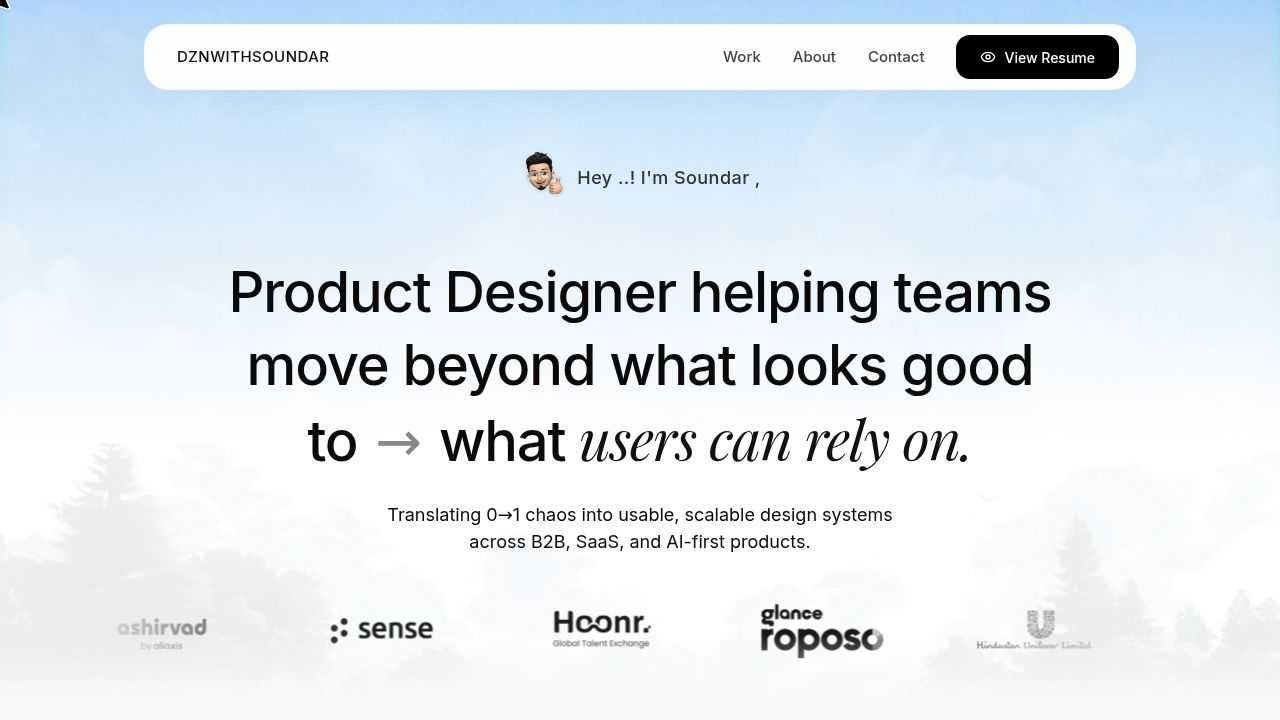
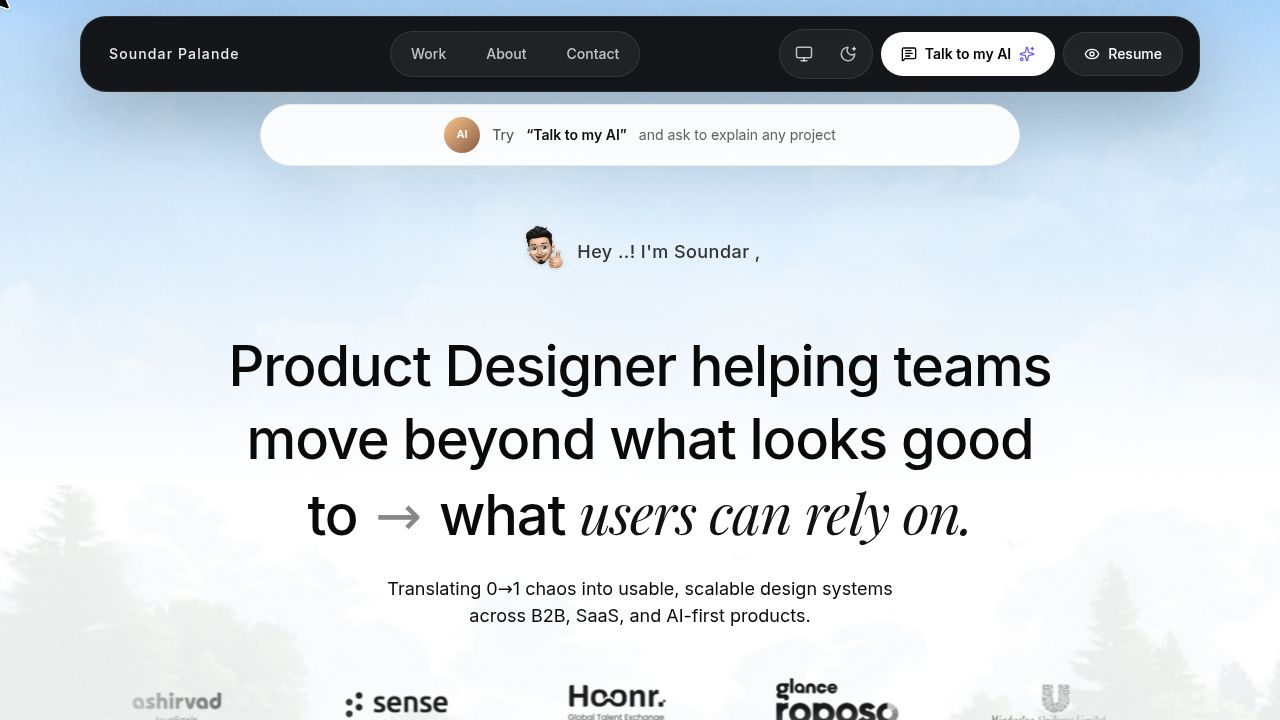
Add an AI-guided experience to the portfolio landing page
Update `index.html` to modify meta tags for SEO and social sharing. Enhance `Hero.tsx` to adjust spacing for new content. Modify `NavBar.tsx` to introduce AI chat functionality, including suggestions, responses, and UI elements, and update navigation styling and behavior.

Replit-Commit-Author: Agent
Replit-Commit-Session-Id: 309cf53a-3d51-4158-a2ee-b2e9ca87f620
Replit-Commit-Checkpoint-Type: full_checkpoint
Replit-Commit-Event-Id: c3237f9f-7fe1-4f6b-af50-444bf3647f81
Replit-Commit-Screenshot-Url: https://storage.googleapis.com/screenshot-production-us-central1/e06b2b63-bfd4-49fe-b2f3-cd91cb2347d5/309cf53a-3d51-4158-a2ee-b2e9ca87f620/76h2har
Replit-Helium-Checkpoint-Created: true

diff --git a/client/src/components/NavBar.tsx b/client/src/components/NavBar.tsx
@@ -1,88 +1,296 @@
-import { Button } from "@/components/ui/button";
-import { Download, Menu, X, Eye } from "lucide-react";
-import { useState } from "react";
+import { Eye, Menu, MessageSquareText, Monitor, MoonStar, Sparkles, X } from "lucide-react";
+import { useMemo, useState } from "react";
 import { ResumeModal } from "./ResumeModal";
+
+const aiSuggestions = [
+  "Explain any project",
+  "Show how I think through UX",
+  "Find the strongest case study",
+  "Summarize my design system work",
+];
 
 export function NavBar() {
   const [isMobileMenuOpen, setIsMobileMenuOpen] = useState(false);
   const [isResumeOpen, setIsResumeOpen] = useState(false);
+  const [isAiOpen, setIsAiOpen] = useState(false);
+  const [activePrompt, setActivePrompt] = useState(aiSuggestions[0]);
+
+  const aiResponse = useMemo(() => {
+    if (activePrompt === "Show how I think through UX") {
+      return "I map ambiguity into usable flows, tighten the product story, and turn feedback into systems teams can ship with confidence.";
+    }
+
+    if (activePrompt === "Find the strongest case study") {
+      return "Start with the AI CRM work. It shows product strategy, workflow simplification, and interface decisions that directly improved usability.";
+    }
+
+    if (activePrompt === "Summarize my design system work") {
+      return "I build scalable UI foundations with thoughtful tokens, repeatable interaction patterns, and components that stay consistent as products grow.";
+    }
+
+    return "Ask about any project and I will frame the context, the problem, the design decisions, and the outcomes in a clean story.";
+  }, [activePrompt]);
 
   const handleNavClick = (e: React.MouseEvent<HTMLAnchorElement>, targetId: string) => {
-    setIsMobileMenuOpen(false); // Close mobile menu when a link is clicked
+    setIsMobileMenuOpen(false);
     const isHome = window.location.pathname === "/";
     if (isHome) {
       e.preventDefault();
       const section = document.getElementById(targetId);
       if (section) {
-        const navHeight = 100;
+        const navHeight = 120;
         const elementPosition = section.getBoundingClientRect().top;
         const offsetPosition = elementPosition + window.pageYOffset - navHeight;
         window.scrollTo({
           top: offsetPosition,
-          behavior: "smooth"
+          behavior: "smooth",
         });
       }
     }
   };
 
   return (
-    <div className="fixed top-6 left-1/2 -translate-x-1/2 w-full max-w-5xl px-4 z-[9998]">
-      <nav className="bg-white/95 backdrop-blur-md flex items-center justify-between px-3 py-2.5 rounded-3xl shadow-[0_8px_30px_rgb(0,0,0,0.04)] border border-gray-100/50">
-        <a href="/" className="pl-5 text-[15px] font-medium tracking-[0.03em] text-[#111] hover:opacity-80 transition-opacity font-sans">
-          DZNWITHSOUNDAR
-        </a>
-        
-        <div className="flex items-center gap-8 pr-1">
-          {/* Desktop Navigation */}
-          <div className="hidden md:flex items-center gap-8 text-[15px] font-medium text-[#444] font-sans">
-            <a href="/#work" onClick={(e) => handleNavClick(e, 'work')} className="hover:text-black transition-colors">Work</a>
-            <a href="/#about" onClick={(e) => handleNavClick(e, 'about')} className="hover:text-black transition-colors">About</a>
-            <a href="/#contact" onClick={(e) => handleNavClick(e, 'contact')} className="hover:text-black transition-colors">Contact</a>
-          </div>
-          
-          {/* Desktop Resume Button */}
-          <button 
-            onClick={() => setIsResumeOpen(true)}
-            className="hidden md:flex rounded-[14px] px-6 h-11 bg-black text-white hover:bg-[#222] font-medium text-[14px] items-center gap-2 transition-all cursor-pointer"
-          >
-            <Eye className="w-4 h-4" />
-            View Resume
-          </button>
-
-          {/* Mobile Menu Toggle Button */}
-          <button 
-            className="md:hidden p-2 rounded-full hover:bg-gray-100 transition-colors"
-            onClick={() => setIsMobileMenuOpen(!isMobileMenuOpen)}
-          >
-            {isMobileMenuOpen ? <X className="w-6 h-6 text-[#111]" /> : <Menu className="w-6 h-6 text-[#111]" />}
-          </button>
-        </div>
-      </nav>
-
-      {/* Mobile Menu Dropdown */}
-      {isMobileMenuOpen && (
-        <div className="md:hidden absolute top-[calc(100%+12px)] left-4 right-4 bg-white/95 backdrop-blur-md rounded-2xl shadow-[0_8px_30px_rgb(0,0,0,0.08)] border border-gray-100/50 p-4 flex flex-col gap-4">
-          <div className="flex flex-col gap-4 text-[16px] font-medium text-[#444] font-sans">
-            <a href="/#work" onClick={(e) => handleNavClick(e, 'work')} className="hover:text-black transition-colors px-4 py-2 hover:bg-gray-50 rounded-xl">Work</a>
-            <a href="/#about" onClick={(e) => handleNavClick(e, 'about')} className="hover:text-black transition-colors px-4 py-2 hover:bg-gray-50 rounded-xl">About</a>
-            <a href="/#contact" onClick={(e) => handleNavClick(e, 'contact')} className="hover:text-black transition-colors px-4 py-2 hover:bg-gray-50 rounded-xl">Contact</a>
-          </div>
-          <div className="pt-2 border-t border-gray-100">
-            <button 
-              onClick={() => {
-                setIsResumeOpen(true);
-                setIsMobileMenuOpen(false);
-              }}
-              className="w-full rounded-[14px] h-12 bg-black text-white hover:bg-[#222] font-medium text-[15px] flex items-center justify-center gap-2 transition-all cursor-pointer"
+    <>
+      <div className="fixed top-4 left-1/2 z-[9998] flex w-full max-w-6xl -translate-x-1/2 flex-col items-center gap-3 px-4">
+        <nav className="w-full rounded-[26px] border border-white/10 bg-[#0b0b0d]/95 px-4 py-3 text-white shadow-[0_20px_80px_rgba(0,0,0,0.28)] backdrop-blur-xl">
+          <div className="flex items-center justify-between gap-3">
+            <a
+              href="/"
+              data-testid="link-home-brand"
+              className="rounded-full px-3 py-2 text-sm font-medium tracking-[0.08em] text-white/92 transition-opacity hover:opacity-75"
             >
-              <Eye className="w-4 h-4" />
-              View Resume
-            </button>
+              Soundar Palande
+            </a>
+
+            <div className="hidden items-center gap-2 rounded-full border border-white/10 bg-white/5 p-1 md:flex">
+              <a
+                href="/#work"
+                onClick={(e) => handleNavClick(e, "work")}
+                data-testid="link-work"
+                className="rounded-full px-4 py-2 text-sm font-medium text-white/72 transition-all hover:bg-white/8 hover:text-white"
+              >
+                Work
+              </a>
+              <a
+                href="/#about"
+                onClick={(e) => handleNavClick(e, "about")}
+                data-testid="link-about"
+                className="rounded-full px-4 py-2 text-sm font-medium text-white/72 transition-all hover:bg-white/8 hover:text-white"
+              >
+                About
+              </a>
+              <a
+                href="/#contact"
+                onClick={(e) => handleNavClick(e, "contact")}
+                data-testid="link-contact"
+                className="rounded-full px-4 py-2 text-sm font-medium text-white/72 transition-all hover:bg-white/8 hover:text-white"
+              >
+                Contact
+              </a>
+            </div>
+
+            <div className="flex items-center gap-2">
+              <div className="hidden items-center gap-1 rounded-full border border-white/10 bg-white/5 p-1 md:flex">
+                <button
+                  type="button"
+                  data-testid="button-desktop-view"
+                  className="flex h-10 w-10 items-center justify-center rounded-full text-white/70 transition-all hover:bg-white/8 hover:text-white"
+                >
+                  <Monitor className="h-[18px] w-[18px]" />
+                </button>
+                <button
+                  type="button"
+                  data-testid="button-theme-toggle"
+                  className="flex h-10 w-10 items-center justify-center rounded-full text-white/70 transition-all hover:bg-white/8 hover:text-white"
+                >
+                  <MoonStar className="h-[18px] w-[18px]" />
+                </button>
+              </div>
+
+              <button
+                type="button"
+                onClick={() => setIsAiOpen(true)}
+                data-testid="button-open-ai"
+                className="hidden h-11 items-center gap-2 rounded-full bg-white px-5 text-sm font-semibold text-black transition-all hover:scale-[1.02] hover:bg-[#f4f4f4] md:inline-flex"
+              >
+                <MessageSquareText className="h-4 w-4" />
+                Talk to my AI
+                <Sparkles className="h-4 w-4 text-[#6d5efc]" />
+              </button>
+
+              <button
+                type="button"
+                onClick={() => setIsResumeOpen(true)}
+                data-testid="button-view-resume"
+                className="hidden h-11 items-center gap-2 rounded-full border border-white/10 bg-white/6 px-5 text-sm font-medium text-white transition-all hover:bg-white/10 md:inline-flex"
+              >
+                <Eye className="h-4 w-4" />
+                Resume
+              </button>
+
+              <button
+                type="button"
+                className="flex h-11 w-11 items-center justify-center rounded-full border border-white/10 bg-white/6 text-white transition-colors hover:bg-white/10 md:hidden"
+                onClick={() => setIsMobileMenuOpen(!isMobileMenuOpen)}
+                data-testid="button-toggle-mobile-menu"
+              >
+                {isMobileMenuOpen ? <X className="h-5 w-5" /> : <Menu className="h-5 w-5" />}
+              </button>
+            </div>
+          </div>
+        </nav>
+
+        <button
+          type="button"
+          onClick={() => {
+            setActivePrompt(aiSuggestions[0]);
+            setIsAiOpen(true);
+          }}
+          data-testid="button-ai-prompt-bar"
+          className="group flex w-full max-w-[760px] items-center justify-center gap-3 rounded-full border border-[#eaeaea] bg-white/92 px-5 py-3 text-sm text-[#222] shadow-[0_20px_60px_rgba(15,23,42,0.08)] backdrop-blur-xl transition-all hover:-translate-y-0.5 hover:shadow-[0_24px_70px_rgba(15,23,42,0.12)]"
+        >
+          <div className="flex h-9 w-9 items-center justify-center overflow-hidden rounded-full bg-[linear-gradient(135deg,#f8c58c_0%,#8a5a44_100%)] text-[11px] font-semibold text-white">
+            AI
+          </div>
+          <span className="font-medium text-[#5e5e5e]">Try</span>
+          <span className="font-semibold text-[#0f0f10] group-hover:text-black">“Talk to my AI”</span>
+          <span className="text-[#5e5e5e]">and ask to explain any project</span>
+        </button>
+
+        {isMobileMenuOpen && (
+          <div className="w-full rounded-[24px] border border-[#19191d] bg-[#0b0b0d]/96 p-4 text-white shadow-[0_20px_80px_rgba(0,0,0,0.28)] backdrop-blur-xl md:hidden">
+            <div className="flex flex-col gap-2">
+              <a
+                href="/#work"
+                onClick={(e) => handleNavClick(e, "work")}
+                data-testid="link-mobile-work"
+                className="rounded-2xl px-4 py-3 text-base font-medium text-white/80 transition-all hover:bg-white/8 hover:text-white"
+              >
+                Work
+              </a>
+              <a
+                href="/#about"
+                onClick={(e) => handleNavClick(e, "about")}
+                data-testid="link-mobile-about"
+                className="rounded-2xl px-4 py-3 text-base font-medium text-white/80 transition-all hover:bg-white/8 hover:text-white"
+              >
+                About
+              </a>
+              <a
+                href="/#contact"
+                onClick={(e) => handleNavClick(e, "contact")}
+                data-testid="link-mobile-contact"
+                className="rounded-2xl px-4 py-3 text-base font-medium text-white/80 transition-all hover:bg-white/8 hover:text-white"
+              >
+                Contact
+              </a>
+              <button
+                type="button"
+                onClick={() => {
+                  setIsAiOpen(true);
+                  setIsMobileMenuOpen(false);
+                }}
+                data-testid="button-mobile-open-ai"
+                className="mt-2 flex h-12 items-center justify-center gap-2 rounded-2xl bg-white text-sm font-semibold text-black transition-all hover:bg-[#f4f4f4]"
+              >
+                <MessageSquareText className="h-4 w-4" />
+                Talk to my AI
+              </button>
+              <button
+                type="button"
+                onClick={() => {
+                  setIsResumeOpen(true);
+                  setIsMobileMenuOpen(false);
+                }}
+                data-testid="button-mobile-view-resume"
+                className="flex h-12 items-center justify-center gap-2 rounded-2xl border border-white/10 bg-white/6 text-sm font-medium text-white transition-all hover:bg-white/10"
+              >
+                <Eye className="h-4 w-4" />
+                View Resume
+              </button>
+            </div>
+          </div>
+        )}
+      </div>
+
+      {isAiOpen && (
+        <div className="fixed inset-0 z-[9999] flex items-start justify-center bg-black/45 px-4 pt-32 backdrop-blur-sm">
+          <div className="w-full max-w-3xl overflow-hidden rounded-[32px] border border-white/15 bg-[#0e0e12]/98 text-white shadow-[0_30px_120px_rgba(0,0,0,0.45)]">
+            <div className="border-b border-white/10 px-6 py-5 md:px-8">
+              <div className="flex items-center justify-between gap-4">
+                <div>
+                  <p className="text-xs font-medium uppercase tracking-[0.22em] text-white/45">AI Portfolio Guide</p>
+                  <h2 data-testid="text-ai-modal-title" className="mt-2 text-2xl font-semibold tracking-[-0.03em] text-white">
+                    Talk to Soundar's AI
+                  </h2>
+                </div>
+                <button
+                  type="button"
+                  onClick={() => setIsAiOpen(false)}
+                  data-testid="button-close-ai"
+                  className="flex h-11 w-11 items-center justify-center rounded-full border border-white/10 bg-white/6 text-white/80 transition-all hover:bg-white/10 hover:text-white"
+                >
+                  <X className="h-5 w-5" />
+                </button>
+              </div>
+            </div>
+
+            <div className="space-y-6 px-6 py-6 md:px-8 md:py-8">
+              <div className="grid gap-3 md:grid-cols-2">
+                {aiSuggestions.map((suggestion) => (
+                  <button
+                    key={suggestion}
+                    type="button"
+                    onClick={() => setActivePrompt(suggestion)}
+                    data-testid={`button-ai-suggestion-${suggestion.toLowerCase().replace(/[^a-z0-9]+/g, "-")}`}
+                    className={`rounded-[22px] border px-4 py-4 text-left text-sm transition-all ${
+                      activePrompt === suggestion
+                        ? "border-[#7c72ff] bg-[linear-gradient(135deg,rgba(124,114,255,0.18),rgba(255,255,255,0.06))] text-white shadow-[0_18px_50px_rgba(124,114,255,0.18)]"
+                        : "border-white/10 bg-white/[0.04] text-white/75 hover:border-white/20 hover:bg-white/[0.08] hover:text-white"
+                    }`}
+                  >
+                    {suggestion}
+                  </button>
+                ))}
+              </div>
+
+              <div className="rounded-[28px] border border-white/10 bg-[linear-gradient(180deg,rgba(255,255,255,0.06)_0%,rgba(255,255,255,0.03)_100%)] p-5 md:p-6">
+                <div className="flex items-start gap-4">
+                  <div className="flex h-11 w-11 shrink-0 items-center justify-center rounded-2xl bg-[linear-gradient(135deg,#7c72ff_0%,#4f46e5_100%)] shadow-[0_12px_30px_rgba(99,102,241,0.35)]">
+                    <Sparkles className="h-5 w-5 text-white" />
+                  </div>
+                  <div className="space-y-2">
+                    <p className="text-xs font-medium uppercase tracking-[0.22em] text-white/45">Selected prompt</p>
+                    <p data-testid="text-ai-active-prompt" className="text-lg font-semibold tracking-[-0.02em] text-white">
+                      {activePrompt}
+                    </p>
+                    <p data-testid="text-ai-response" className="max-w-2xl text-sm leading-7 text-white/72 md:text-[15px]">
+                      {aiResponse}
+                    </p>
+                  </div>
+                </div>
+              </div>
+
+              <div className="flex flex-col gap-3 rounded-[26px] border border-white/10 bg-black/20 p-4 md:flex-row md:items-center md:justify-between md:p-5">
+                <div>
+                  <p className="text-sm font-medium text-white">Want the full conversation flow next?</p>
+                  <p className="mt-1 text-sm text-white/55">I can expand this into a richer AI assistant section across the hero and project pages.</p>
+                </div>
+                <button
+                  type="button"
+                  onClick={() => setIsAiOpen(false)}
+                  data-testid="button-ai-got-it"
+                  className="inline-flex h-11 items-center justify-center rounded-full bg-white px-5 text-sm font-semibold text-black transition-all hover:bg-[#f4f4f4]"
+                >
+                  Got it
+                </button>
+              </div>
+            </div>
           </div>
         </div>
       )}
-      
+
       <ResumeModal isOpen={isResumeOpen} onClose={() => setIsResumeOpen(false)} />
-    </div>
+    </>
   );
 }

diff --git a/client/index.html b/client/index.html
@@ -4,18 +4,18 @@
     <meta charset="UTF-8" />
     <meta name="viewport" content="width=device-width, initial-scale=1.0, maximum-scale=1" />
 
-    <title>Soundar – Product Designer | UX Portfolio</title>
-    <meta name="description" content="Soundar – Product Designer helping teams move beyond what looks good. UX portfolio showcasing product thinking, user experience design, and impactful digital products." />
+    <title>Soundar Palande – Product Designer with AI Portfolio Guide</title>
+    <meta name="description" content="Explore Soundar Palande's product design portfolio with an AI-guided intro, project storytelling, and polished UX case studies built for modern product teams." />
 
-    <meta property="og:title" content="Soundar – Product Designer helping teams move beyond what looks good" />
-    <meta property="og:description" content="UX portfolio of Soundar – Product Designer focused on product thinking, user experience, and meaningful digital products" />
+    <meta property="og:title" content="Soundar Palande – Product Designer with AI Portfolio Guide" />
+    <meta property="og:description" content="An AI-enhanced product design portfolio featuring project explainers, thoughtful UX case studies, and a polished modern interface." />
     <meta property="og:url" content="https://heysoundar.vercel.app/" />
     <meta property="og:type" content="website" />
     <meta property="og:image" content="https://heysoundar.vercel.app/metaimage.jpeg" />
 
     <meta name="twitter:card" content="summary_large_image" />
-    <meta name="twitter:title" content="Soundar – Product Designer" />
-    <meta name="twitter:description" content="Product Designer helping teams move beyond what looks good" />
+    <meta name="twitter:title" content="Soundar Palande – Product Designer with AI Portfolio Guide" />
+    <meta name="twitter:description" content="An AI-enhanced product design portfolio with guided project explainers and polished UX case studies." />
     <meta name="twitter:image" content="https://heysoundar.vercel.app/metaimage.jpeg" />
 
     <link rel="icon" type="image/png" href="/favicon.png" />

diff --git a/client/src/components/Hero.tsx b/client/src/components/Hero.tsx
@@ -24,7 +24,7 @@ export function Hero() {
         }}
       />
       
-      <div className="relative z-10 w-full max-w-[1200px] mx-auto flex flex-col items-center pt-[110px]">
+      <div className="relative z-10 w-full max-w-[1200px] mx-auto flex flex-col items-center pt-[168px] md:pt-[184px]">
         
         {/* Top Avatar & Greeting */}
         <div className="flex items-center gap-2 mb-10">
